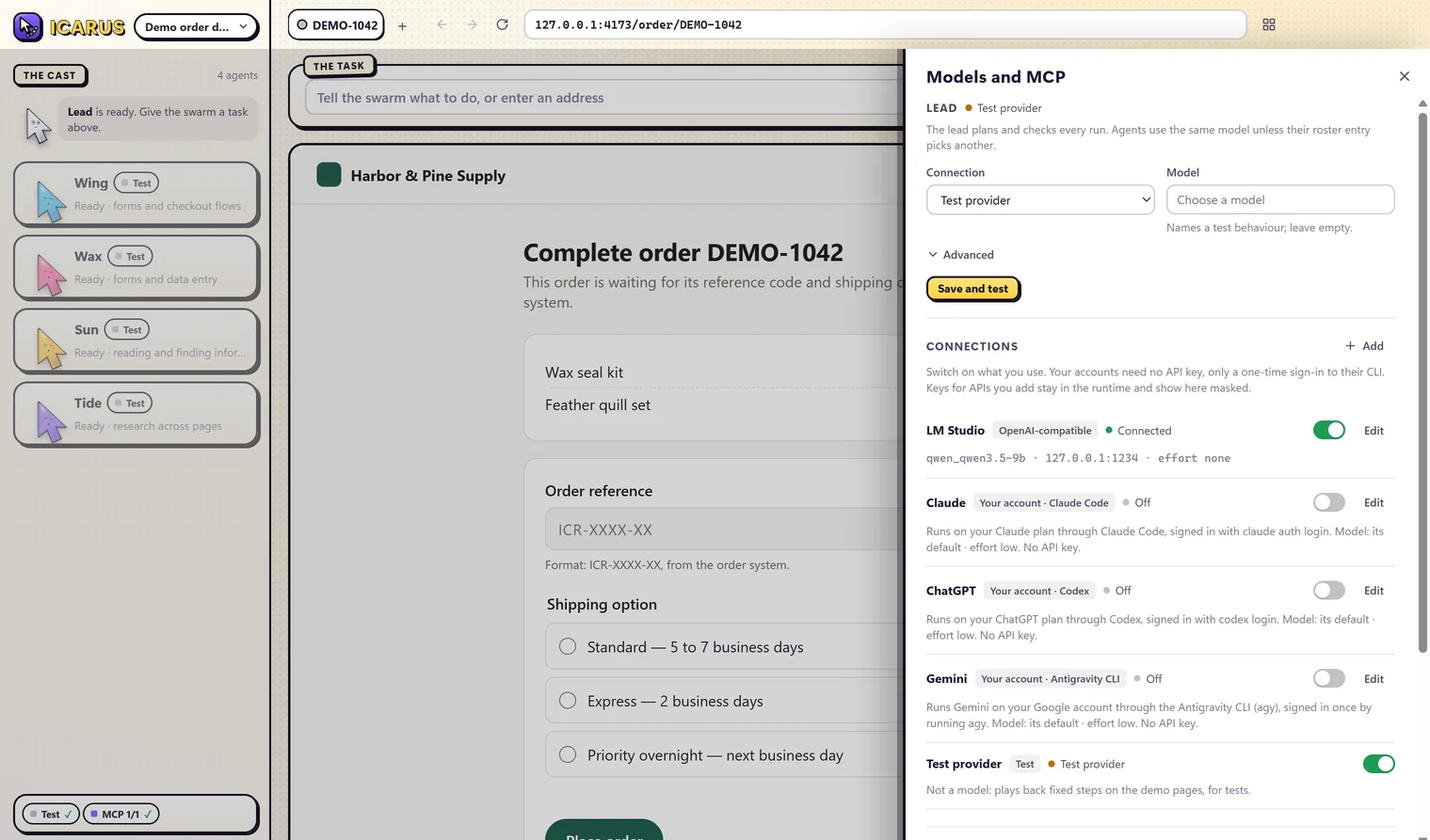
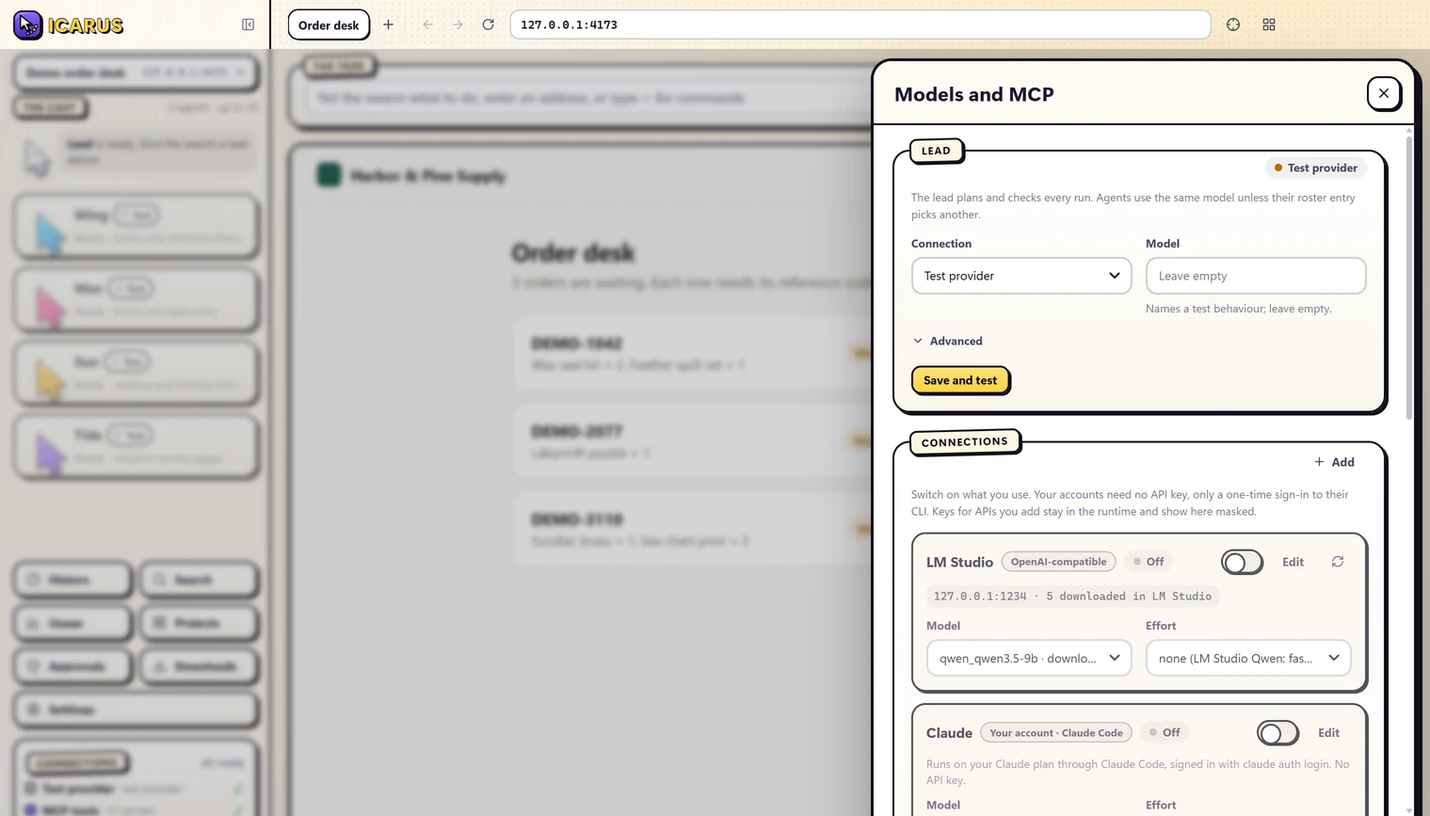
ICARUS 1.0.0 is out: high-res screens from the packaged build, download text
- Screens: six Night/Day pairs captured from the packaged 1.0.0 at 2x
  (live view, roster, Models and MCP, run details, settings, verified).
  The Models and MCP capture is cropped above its footer (local path)
  and anchored right in its frame.
- Download: version 1.0.0, Setup 196 MB, portable 180 MB, the five-scene
  setup that updates an earlier install, settings carry over from 0.1.0.
  The links already resolve to the v1.0.0 release assets.
- New in v1: says the list is out now in 1.0.0.

diff --git a/index.html b/index.html
@@ -48,13 +48,13 @@
     }, 1200 * (n + 1));
   };
 </script>
-<link rel="stylesheet" href="assets/styles.css?v=20261118g">
+<link rel="stylesheet" href="assets/styles.css?v=20261118h">
 <script type="importmap">{ "imports": { "three": "./assets/vendor/three/three.module.min.js" } }</script>
-<script src="assets/swarm.js?v=20261118g" defer></script>
-<script src="assets/story.js?v=20261118g" defer></script>
-<script src="assets/site.js?v=20261118g" defer></script>
-<script src="assets/comic-fx.js?v=20261118g" defer></script>
-<script type="module" src="assets/three-icarus.js?v=20261118g"></script>
+<script src="assets/swarm.js?v=20261118h" defer></script>
+<script src="assets/story.js?v=20261118h" defer></script>
+<script src="assets/site.js?v=20261118h" defer></script>
+<script src="assets/comic-fx.js?v=20261118h" defer></script>
+<script type="module" src="assets/three-icarus.js?v=20261118h"></script>
 </head>
 <body>
 
@@ -642,8 +642,8 @@
        Built from design/v1-features.md and design/v1-features-2.md: 81
        features (F1-F51, M1-M30) and 100 quality-of-life fixes (Q1-Q80,
        R1-R20), each built and exercised in the running app, word for word.
-       The finishing touches strip is not counted. Everything here ships
-       with the next Windows build; the download further down is v0.1.0.
+       The finishing touches strip is not counted. All of it is in ICARUS
+       1.0.0, the download further down.
   ──────────────────────────────────────────────────────────────────────── -->
   <section class="sec wrap" id="v1" aria-labelledby="v1-title">
     <p class="cap-meanwhile reveal">Meanwhile, in the workshop…</p>
@@ -652,7 +652,7 @@
         <p class="label">New in v1</p>
         <h2 id="v1-title">81 features and 100 little fixes.</h2>
       </div>
-      <p>Two batches, each item built into ICARUS v1 and checked in the running app. They arrive with the next Windows build; the download below is still v0.1.0.</p>
+      <p>Two batches, each item built into ICARUS v1 and checked in the running app. All of it is out now in ICARUS 1.0.0, the download below.</p>
     </header>
     <div class="v1-tally">
       <p class="v1-count reveal" data-kind="f"><b data-count="81">81</b><span>new features</span></p>
@@ -965,13 +965,11 @@
   </section>
 
   <!-- ─── Screens ──────────────────────────────────────────────────────────
-       App screenshots. A pair (shot-dark, shot-light) follows the edition;
-       a single capture shows in both. See shots/README.md for the files.
-         shots/run-{dark,light}[-1x].webp           2280 × 1410 (1x: 1140 wide)
-         shots/plan-review[-1x].webp                2280 × 1410 (Night only)
-         shots/replay[-1x].webp                     1924 × 1190 (Night only, cropped)
-         shots/rail-folded-{dark,light}[-1x].webp   2280 × 1410
-         shots/connections-{dark,light}[-1x].webp   3038 × 1786 (1x: 1519 wide)
+       Screenshots of the packaged ICARUS 1.0.0, one per edition: the dark
+       one shows in dark, the light one in light (see shots/README.md).
+         shots/{live-view,roster,history,settings,verified}-{dark,light}[-1x].webp
+                                                  3038 × 1880 (1x: 1519 wide)
+         shots/connections-{dark,light}[-1x].webp   3038 × 1734 (1x: 1519 × 867)
        A failed load retries a few times (a dropped connection must not
        leave the frame empty) before the drawn wireframe shows instead.
   ──────────────────────────────────────────────────────────────────────── -->
@@ -980,9 +978,9 @@
     <header class="sec-h split reveal">
       <div>
         <p class="label">Inside the app</p>
-        <h2 id="inside-title">The live view, and what sits around it.</h2>
+        <h2 id="inside-title">The live view, and everything around it.</h2>
       </div>
-      <p>From the v1 build, which arrives with the next Windows release: the swarm at work, the plan before it starts, a run played back. And the models it all runs on.</p>
+      <p>ICARUS 1.0.0 as it ships: the swarm at work, the agents you give it, the models it runs on, what a run leaves behind and how you set it up.</p>
     </header>
 
     <div class="shots">
@@ -990,8 +988,8 @@
         <div class="shot-frame pane inked">
           <div class="peek" aria-hidden="true"><div class="chr" data-who="wing" data-face="happy" data-a="left" style="--s:92px;--r:-10deg;--d:0"><svg class="glyph" style="--c:var(--wing)"><use href="#cur"/></svg></div><p class="bal p" data-tail="bl" style="--x:180%;--y:-10%;--w:220px">That&#8217;s us, live!</p></div>
           <div class="shot-media">
-            <img class="shot-dark" src="shots/run-dark-1x.webp" srcset="shots/run-dark-1x.webp 1140w, shots/run-dark.webp 2280w" sizes="(min-width: 1152px) 1104px, calc(100vw - 48px)" width="2280" height="1410" alt="ICARUS in Night, mid-run and paused: Wing, Wax and Sun each hold one order in its own tab, and the cast rail shows its tool tiles" loading="lazy" decoding="async" onerror="shotRetry(this)">
-            <img class="shot-light" src="shots/run-light-1x.webp" srcset="shots/run-light-1x.webp 1140w, shots/run-light.webp 2280w" sizes="(min-width: 1152px) 1104px, calc(100vw - 48px)" width="2280" height="1410" alt="ICARUS in Day, mid-run: Wing, Wax and Sun type each order&#8217;s reference in their own tabs while the lead watches" loading="lazy" decoding="async" onerror="shotRetry(this)">
+            <img class="shot-dark" src="shots/live-view-dark-1x.webp" srcset="shots/live-view-dark-1x.webp 1519w, shots/live-view-dark.webp 3038w" sizes="(min-width: 1152px) 1104px, calc(100vw - 48px)" width="3038" height="1880" alt="ICARUS 1.0.0 in Night, mid-run: Wing works one order while helpers Gust and Plume take the other two, each clicking its shipping option in its own tab, with the tool tiles under the cast" loading="lazy" decoding="async" onerror="shotRetry(this)">
+            <img class="shot-light" src="shots/live-view-light-1x.webp" srcset="shots/live-view-light-1x.webp 1519w, shots/live-view-light.webp 3038w" sizes="(min-width: 1152px) 1104px, calc(100vw - 48px)" width="3038" height="1880" alt="ICARUS 1.0.0 in Day, mid-run: Wing works one order while helpers Gust and Plume take the other two, each clicking its shipping option in its own tab, with the tool tiles under the cast" loading="lazy" decoding="async" onerror="shotRetry(this)">
             <div class="ph ph-live" aria-hidden="true">
               <div class="ph-top"><i></i><i></i><i></i><i></i><i></i></div>
               <div class="ph-grid"><i></i><i></i><i></i><i></i></div>
@@ -1003,67 +1001,83 @@
             </div>
           </div>
         </div>
-        <figcaption><b>Live view</b><span>Wing, Wax and Sun take an order each, every one in its own tab. Pause, live hints and Stop sit on the task bar; the tool tiles sit under the cast.</span></figcaption>
+        <figcaption><b>Live view</b><span>Wing takes one order; with Wing busy, helpers Gust and Plume join for the other two, one tab each. The tool tiles sit under the cast.</span></figcaption>
       </figure>
 
       <figure class="shot reveal">
         <div class="shot-frame pane inked">
-          <div class="peek" aria-hidden="true"><div class="chr" data-who="lead" data-face="sparkle" data-a="left" style="--s:92px;--r:-10deg;--d:0"><svg class="glyph" style="--c:var(--lead)"><use href="#cur"/></svg></div><p class="bal p" data-tail="bl" style="--x:180%;--y:-10%;--w:220px">My plan. Your call.</p></div>
+          <div class="peek" aria-hidden="true"><div class="chr" data-who="lead" data-face="sparkle" data-a="left" style="--s:92px;--r:-10deg;--d:0"><svg class="glyph" style="--c:var(--lead)"><use href="#cur"/></svg></div><p class="bal p" data-tail="bl" style="--x:180%;--y:-10%;--w:220px">The roster.</p></div>
           <div class="shot-media">
-            <img src="shots/plan-review-1x.webp" srcset="shots/plan-review-1x.webp 1140w, shots/plan-review.webp 2280w" sizes="(min-width: 1152px) 544px, (min-width: 761px) calc(50vw - 32px), calc(100vw - 48px)" width="2280" height="1410" alt="ICARUS Review the plan sheet: the lead&#8217;s three subtasks, one per order, each with its instructions and its agent, before anything runs" loading="lazy" decoding="async" onerror="shotRetry(this)">
+            <img class="shot-dark" src="shots/roster-dark-1x.webp" srcset="shots/roster-dark-1x.webp 1519w, shots/roster-dark.webp 3038w" sizes="(min-width: 1152px) 544px, (min-width: 761px) calc(50vw - 32px), calc(100vw - 48px)" width="3038" height="1880" alt="ICARUS Project and roster sheet in Night: Wing and Wax with their colour swatches, strengths, connections, standing instructions and MCP tools" loading="lazy" decoding="async" onerror="shotRetry(this)">
+            <img class="shot-light" src="shots/roster-light-1x.webp" srcset="shots/roster-light-1x.webp 1519w, shots/roster-light.webp 3038w" sizes="(min-width: 1152px) 544px, (min-width: 761px) calc(50vw - 32px), calc(100vw - 48px)" width="3038" height="1880" alt="ICARUS Project and roster sheet in Day: Wing and Wax with their colour swatches, strengths, connections, standing instructions and MCP tools" loading="lazy" decoding="async" onerror="shotRetry(this)">
             <div class="ph ph-list" aria-hidden="true">
               <i style="--c:var(--lead)"></i><i style="--c:var(--wing)"></i><i style="--c:var(--wax)"></i><i style="--c:var(--sun)"></i><i style="--c:var(--tide)"></i>
             </div>
           </div>
         </div>
-        <figcaption><b>Review the plan</b><span>Read the lead&#8217;s subtasks before anything runs, change them or hand one to another agent, then start.</span></figcaption>
-      </figure>
-
-      <figure class="shot reveal">
-        <div class="shot-frame pane inked">
-          <div class="peek" aria-hidden="true"><div class="chr" data-who="wax" data-face="happy" data-a="left" style="--s:92px;--r:-10deg;--d:0"><svg class="glyph" style="--c:var(--wax)"><use href="#cur"/></svg></div><p class="bal p" data-tail="bl" style="--x:180%;--y:-10%;--w:220px">Again, at 4&#215;!</p></div>
-          <div class="shot-media">
-            <img src="shots/replay-1x.webp" srcset="shots/replay-1x.webp 962w, shots/replay.webp 1924w" sizes="(min-width: 1152px) 544px, (min-width: 761px) calc(50vw - 32px), calc(100vw - 48px)" width="1924" height="1190" alt="ICARUS Run details for a stopped run: Run again, Retry 2 unfinished, and the replay scrubber playing the run back at four times speed" loading="lazy" decoding="async" onerror="shotRetry(this)">
-            <div class="ph ph-conn" aria-hidden="true">
-              <div><i></i><i></i><i></i></div><div><i></i><i></i><i></i><i></i></div>
-            </div>
-          </div>
-        </div>
-        <figcaption><b>Run details and replay</b><span>Run it again, retry only what did not finish, or play it back step by step.</span></figcaption>
-      </figure>
-
-      <figure class="shot reveal">
-        <div class="shot-frame pane inked">
-          <div class="peek" aria-hidden="true"><div class="chr" data-who="sun" data-face="cool" data-a="left" style="--s:92px;--r:-10deg;--d:0"><svg class="glyph" style="--c:var(--sun)"><use href="#cur"/></svg></div><p class="bal p" data-tail="bl" style="--x:180%;--y:-10%;--w:220px">Room to work.</p></div>
-          <div class="shot-media">
-            <img class="shot-dark" src="shots/rail-folded-dark-1x.webp" srcset="shots/rail-folded-dark-1x.webp 1140w, shots/rail-folded-dark.webp 2280w" sizes="(min-width: 1152px) 544px, (min-width: 761px) calc(50vw - 32px), calc(100vw - 48px)" width="2280" height="1410" alt="ICARUS in Night with the cast rail folded to portraits: all three orders verified, each on its own page" loading="lazy" decoding="async" onerror="shotRetry(this)">
-            <img class="shot-light" src="shots/rail-folded-light-1x.webp" srcset="shots/rail-folded-light-1x.webp 1140w, shots/rail-folded-light.webp 2280w" sizes="(min-width: 1152px) 544px, (min-width: 761px) calc(50vw - 32px), calc(100vw - 48px)" width="2280" height="1410" alt="ICARUS in Day with the cast rail folded to portraits: all three orders verified, each on its own page" loading="lazy" decoding="async" onerror="shotRetry(this)">
-            <div class="ph ph-live" aria-hidden="true">
-              <div class="ph-top"><i></i><i></i><i></i><i></i><i></i></div>
-              <div class="ph-grid"><i></i><i></i><i></i><i></i></div>
-              <div class="ph-dock"><i></i><i></i></div>
-              <svg class="glyph ph-cur" style="--c:var(--wing);left:30%;top:32%"><use href="#cur"/></svg>
-              <svg class="glyph ph-cur" style="--c:var(--wax);left:74%;top:38%"><use href="#cur"/></svg>
-              <svg class="glyph ph-cur" style="--c:var(--sun);left:22%;top:66%"><use href="#cur"/></svg>
-              <svg class="glyph ph-cur" style="--c:var(--tide);left:66%;top:70%"><use href="#cur"/></svg>
-            </div>
-          </div>
-        </div>
-        <figcaption><b>Folded rail</b><span>Fold the cast to portraits and the stage gets the room. All three orders here are verified on their own pages.</span></figcaption>
+        <figcaption><b>Roster</b><span>Each agent&#8217;s colour, strength, connection, standing instructions and MCP tools.</span></figcaption>
       </figure>
 
       <figure class="shot reveal">
         <div class="shot-frame pane inked">
           <div class="peek" aria-hidden="true"><div class="chr" data-who="tide" data-face="cool" data-a="left" style="--s:92px;--r:-10deg;--d:0"><svg class="glyph" style="--c:var(--tide)"><use href="#cur"/></svg></div><p class="bal p" data-tail="bl" style="--x:180%;--y:-10%;--w:220px">Your models.</p></div>
           <div class="shot-media">
-            <img class="shot-dark" src="shots/connections-dark-1x.webp" srcset="shots/connections-dark-1x.webp 1519w, shots/connections-dark.webp 3038w" sizes="(min-width: 1152px) 544px, (min-width: 761px) calc(50vw - 32px), calc(100vw - 48px)" width="3038" height="1786" alt="ICARUS Models and MCP sheet: LM Studio connected, plus Claude, ChatGPT and Gemini through your own signed-in accounts" loading="lazy" decoding="async" onerror="shotRetry(this)">
-            <img class="shot-light" src="shots/connections-light-1x.webp" srcset="shots/connections-light-1x.webp 1519w, shots/connections-light.webp 3038w" sizes="(min-width: 1152px) 544px, (min-width: 761px) calc(50vw - 32px), calc(100vw - 48px)" width="3038" height="1786" alt="ICARUS Models and MCP sheet: LM Studio connected, plus Claude, ChatGPT and Gemini through your own signed-in accounts" loading="lazy" decoding="async" onerror="shotRetry(this)">
+            <img class="shot-dark shot-r" src="shots/connections-dark-1x.webp" srcset="shots/connections-dark-1x.webp 1519w, shots/connections-dark.webp 3038w" sizes="(min-width: 1152px) 544px, (min-width: 761px) calc(50vw - 32px), calc(100vw - 48px)" width="3038" height="1734" alt="ICARUS Models and MCP sheet in Night: the lead on the Test provider, LM Studio switched off, and Claude as an account connection through Claude Code, no API key" loading="lazy" decoding="async" onerror="shotRetry(this)">
+            <img class="shot-light shot-r" src="shots/connections-light-1x.webp" srcset="shots/connections-light-1x.webp 1519w, shots/connections-light.webp 3038w" sizes="(min-width: 1152px) 544px, (min-width: 761px) calc(50vw - 32px), calc(100vw - 48px)" width="3038" height="1734" alt="ICARUS Models and MCP sheet in Day: the lead on the Test provider, LM Studio switched off, and Claude as an account connection through Claude Code, no API key" loading="lazy" decoding="async" onerror="shotRetry(this)">
             <div class="ph ph-conn" aria-hidden="true">
               <div><i></i><i></i><i></i></div><div><i></i><i></i><i></i><i></i></div>
             </div>
           </div>
         </div>
         <figcaption><b>Models and MCP</b><span>LM Studio locally, or Claude, ChatGPT and Gemini on your own accounts, no API key.</span></figcaption>
+      </figure>
+
+      <figure class="shot reveal">
+        <div class="shot-frame pane inked">
+          <div class="peek" aria-hidden="true"><div class="chr" data-who="sun" data-face="cool" data-a="left" style="--s:92px;--r:-10deg;--d:0"><svg class="glyph" style="--c:var(--sun)"><use href="#cur"/></svg></div><p class="bal p" data-tail="bl" style="--x:180%;--y:-10%;--w:220px">Every step, kept.</p></div>
+          <div class="shot-media">
+            <img class="shot-dark" src="shots/history-dark-1x.webp" srcset="shots/history-dark-1x.webp 1519w, shots/history-dark.webp 3038w" sizes="(min-width: 1152px) 544px, (min-width: 761px) calc(50vw - 32px), calc(100vw - 48px)" width="3038" height="1880" alt="ICARUS Run details in Night after a run with all 3 verified: the summary, Run again and the exports, the run in numbers, and who worked when on one timeline" loading="lazy" decoding="async" onerror="shotRetry(this)">
+            <img class="shot-light" src="shots/history-light-1x.webp" srcset="shots/history-light-1x.webp 1519w, shots/history-light.webp 3038w" sizes="(min-width: 1152px) 544px, (min-width: 761px) calc(50vw - 32px), calc(100vw - 48px)" width="3038" height="1880" alt="ICARUS Run details in Day after a run with all 3 verified: the summary, Run again and the exports, the run in numbers, and who worked when on one timeline" loading="lazy" decoding="async" onerror="shotRetry(this)">
+            <div class="ph ph-conn" aria-hidden="true">
+              <div><i></i><i></i><i></i></div><div><i></i><i></i><i></i><i></i></div>
+            </div>
+          </div>
+        </div>
+        <figcaption><b>Run details</b><span>Every run is kept: its numbers, who worked when, and one click to run it again, replay it or save a report.</span></figcaption>
+      </figure>
+
+      <figure class="shot reveal">
+        <div class="shot-frame pane inked">
+          <div class="peek" aria-hidden="true"><div class="chr" data-who="wax" data-face="happy" data-a="left" style="--s:92px;--r:-10deg;--d:0"><svg class="glyph" style="--c:var(--wax)"><use href="#cur"/></svg></div><p class="bal p" data-tail="bl" style="--x:180%;--y:-10%;--w:220px">Your way.</p></div>
+          <div class="shot-media">
+            <img class="shot-dark" src="shots/settings-dark-1x.webp" srcset="shots/settings-dark-1x.webp 1519w, shots/settings-dark.webp 3038w" sizes="(min-width: 1152px) 544px, (min-width: 761px) calc(50vw - 32px), calc(100vw - 48px)" width="3038" height="1880" alt="ICARUS Settings sheet in Night: Night, Day or follow Windows, motion and density, and switches for cursors, desktop cursors, speech balloons, sound-effect words and target boxes" loading="lazy" decoding="async" onerror="shotRetry(this)">
+            <img class="shot-light" src="shots/settings-light-1x.webp" srcset="shots/settings-light-1x.webp 1519w, shots/settings-light.webp 3038w" sizes="(min-width: 1152px) 544px, (min-width: 761px) calc(50vw - 32px), calc(100vw - 48px)" width="3038" height="1880" alt="ICARUS Settings sheet in Day: Night, Day or follow Windows, motion and density, and switches for cursors, desktop cursors, speech balloons, sound-effect words and target boxes" loading="lazy" decoding="async" onerror="shotRetry(this)">
+            <div class="ph ph-list" aria-hidden="true">
+              <i style="--c:var(--lead)"></i><i style="--c:var(--wing)"></i><i style="--c:var(--wax)"></i><i style="--c:var(--sun)"></i><i style="--c:var(--tide)"></i>
+            </div>
+          </div>
+        </div>
+        <figcaption><b>Settings</b><span>Night, Day or follow Windows, motion and density, and each part of the swarm&#8217;s show on or off.</span></figcaption>
+      </figure>
+
+      <figure class="shot shot-main reveal">
+        <div class="shot-frame pane inked">
+          <div class="peek" aria-hidden="true"><div class="chr" data-who="wing" data-face="sparkle" data-a="left" style="--s:92px;--r:-10deg;--d:0"><svg class="glyph" style="--c:var(--wing)"><use href="#cur"/></svg></div><p class="bal p" data-tail="bl" style="--x:180%;--y:-10%;--w:220px">All three, verified!</p></div>
+          <div class="shot-media">
+            <img class="shot-dark" src="shots/verified-dark-1x.webp" srcset="shots/verified-dark-1x.webp 1519w, shots/verified-dark.webp 3038w" sizes="(min-width: 1152px) 1104px, calc(100vw - 48px)" width="3038" height="1880" alt="ICARUS in Night after a run: all three orders confirmed, each verified on its own page, while the lead looks over Sun&#8217;s result" loading="lazy" decoding="async" onerror="shotRetry(this)">
+            <img class="shot-light" src="shots/verified-light-1x.webp" srcset="shots/verified-light-1x.webp 1519w, shots/verified-light.webp 3038w" sizes="(min-width: 1152px) 1104px, calc(100vw - 48px)" width="3038" height="1880" alt="ICARUS in Day after a run: all three orders confirmed, each verified on its own page, while the lead looks over Sun&#8217;s result" loading="lazy" decoding="async" onerror="shotRetry(this)">
+            <div class="ph ph-live" aria-hidden="true">
+              <div class="ph-top"><i></i><i></i><i></i><i></i><i></i></div>
+              <div class="ph-grid"><i></i><i></i><i></i><i></i></div>
+              <div class="ph-dock"><i></i><i></i></div>
+              <svg class="glyph ph-cur" style="--c:var(--wing);left:30%;top:32%"><use href="#cur"/></svg>
+              <svg class="glyph ph-cur" style="--c:var(--wax);left:74%;top:38%"><use href="#cur"/></svg>
+              <svg class="glyph ph-cur" style="--c:var(--sun);left:22%;top:66%"><use href="#cur"/></svg>
+              <svg class="glyph ph-cur" style="--c:var(--tide);left:66%;top:70%"><use href="#cur"/></svg>
+            </div>
+          </div>
+        </div>
+        <figcaption><b>Verified</b><span>A run is done only when every result checks out on its own page.</span></figcaption>
       </figure>
     </div>
     <p class="cap-meanwhile reveal cap-end">And now, your turn…</p>
@@ -1080,13 +1094,13 @@
       <header class="sec-h">
         <p class="label">Download</p>
         <h2 id="download-title">Get ICARUS for Windows.</h2>
-        <p>Version 0.1.0 for Windows 10 and 11, 64-bit. It runs on your own machine, with your own models.</p>
+        <p>Version 1.0.0 for Windows 10 and 11, 64-bit. It runs on your own machine, with your own models.</p>
       </header>
       <div class="dl-cards">
         <a class="dl-card dl-main" href="https://github.com/iksamxul/Icarus/releases/latest/download/ICARUS-Setup.exe">
           <span class="dl-orb" aria-hidden="true"><svg class="ico"><use href="#i-download"/></svg></span>
-          <span class="dl-t"><b>Installer</b><small><span>ICARUS-Setup.exe</span> · <span>195&nbsp;MB</span></small></span>
-          <span class="dl-d">A comic setup in four episodes, with the cast flying around while it installs. No admin needed. Adds Start menu and desktop shortcuts, and an uninstaller in Settings › Apps.</span>
+          <span class="dl-t"><b>Installer</b><small><span>ICARUS-Setup.exe</span> · <span>196&nbsp;MB</span></small></span>
+          <span class="dl-d">A comic setup in five scenes, starring the cast. No admin needed. Adds a Start menu entry, an optional desktop shortcut and an uninstaller in Settings › Apps, and updates an earlier install in place.</span>
           <span class="dl-tag">Recommended</span>
         </a>
         <a class="dl-card" href="https://github.com/iksamxul/Icarus/releases/latest/download/ICARUS-portable.zip">
@@ -1101,7 +1115,7 @@
           <li><svg class="ico" aria-hidden="true"><use href="#i-check-circle"/></svg><span>The demo order desk starts automatically. Its pages and tools are included; no Node installation or separate server needed.</span></li>
           <li><svg class="ico" aria-hidden="true"><use href="#i-chip"/></svg><span>Pick models and reasoning effort from dropdowns on every provider, synced automatically with downloaded <a href="https://lmstudio.ai">LM Studio</a> models.</span></li>
           <li><svg class="ico" aria-hidden="true"><use href="#i-key"/></svg><span>Your own accounts use the Claude Code, Codex and Antigravity CLIs signed in on that PC. No API key.</span></li>
-          <li><svg class="ico" aria-hidden="true"><use href="#i-check-circle"/></svg><span>Designate a local folder for live-reloading builds, and optionally enable Computer &amp; application access + Live vision. Settings stay in <code>%APPDATA%\ICARUS</code>.</span></li>
+          <li><svg class="ico" aria-hidden="true"><use href="#i-check-circle"/></svg><span>Designate a local folder for live-reloading builds, and optionally enable Computer &amp; application access + Live vision. Settings stay in <code>%APPDATA%\ICARUS</code> and carry over from 0.1.0.</span></li>
         </ul>
         <p class="dl-more"><a href="https://github.com/iksamxul/Icarus/releases/latest">All releases and SHA-256 checksums</a><span aria-hidden="true">·</span><a href="#run">or build it from source</a></p>
       </div>

diff --git a/assets/styles.css b/assets/styles.css
@@ -3212,3 +3212,6 @@ body::before { display: none; }
   .v1-touches { padding: 32px 16px 16px; }
   .v1-touches ul { grid-template-columns: minmax(0, 1fr); gap: 12px; }
 }
+
+/* A capture wider than the 16:10 frame keeps its right edge, where the sheet is. */
+.shot-media img.shot-r { object-position: 100% 50%; }

diff --git a/shots/README.md b/shots/README.md
@@ -1,13 +1,14 @@
 # Screens
 
-Captures of the real app (Electron), driven through its own end-to-end scenarios. A pair (`-dark`, `-light`) follows the site's edition: the dark one shows in dark, the light one in light. A single capture shows in both. Each image comes at full size and at half size (`-1x`), and the page picks one through `srcset`.
+Captures of the packaged ICARUS 1.0.0, one set per theme. The site shows the dark set in its dark edition and the light set in its light edition. Each image comes at the full 2x capture (3038 px wide) and at half size (`-1x`), and the page picks one through `srcset`.
 
 | File | Shows |
 | --- | --- |
-| `run-{dark,light}.webp` | v1, mid-run: Wing, Wax and Sun on one order each, the cast rail with its tool tiles. The Night one is paused. 2280 × 1410. |
-| `plan-review.webp` | v1, the Review the plan sheet before a run starts. Night only. 2280 × 1410. |
-| `replay.webp` | v1, Run details with the replay scrubber. Night only, cropped to 1924 × 1190 to leave out two notices that show a local path (with the Windows user name). |
-| `rail-folded-{dark,light}.webp` | v1, the cast rail folded to portraits after a run with all three orders verified. 2280 × 1410. |
-| `connections-{dark,light}.webp` | The Models and MCP sheet, cropped above the bottom line, which shows the local config path (with the Windows user name). From the earlier Cast & Stage build, kept because the final v1 capture shows LM Studio unreachable during the test run. 3038 × 1786. |
+| `live-view-{dark,light}.webp` | The live view mid-run: Wing on one order, helpers Gust and Plume on the other two, each mid-click on its shipping option in its own tab, with the cast rail and its tool tiles. 3038 × 1880. |
+| `roster-{dark,light}.webp` | The Project and roster sheet. 3038 × 1880. |
+| `connections-{dark,light}.webp` | The Models and MCP sheet: the lead on the Test provider, LM Studio off (not running during the capture), Claude as an account connection. Cropped just above the footer, which shows the local config path (with the Windows user name). 3038 × 1734; the page anchors it to the right (`shot-r`). |
+| `history-{dark,light}.webp` | Run details after a verified run: summary, exports, the run in numbers and who worked when. 3038 × 1880. |
+| `settings-{dark,light}.webp` | The Settings sheet. 3038 × 1880. |
+| `verified-{dark,light}.webp` | The stage after a run, all three orders confirmed. 3038 × 1880. |
 
-To refresh: the v1 captures come from `test-results/batch2/` and `test-results/audit-run-1520.png` (the window at 1520 × 940, device scale 1.5). Convert to WebP (quality 84), save a half-size copy as `-1x`, and crop any line or notice that shows a local path.
+To refresh: capture the packaged app (originals in `test-results/site-shots-v1/png/`) at 1520 × 940 with `--force-device-scale-factor=2`, the Night set with the demo pages in their dark theme. Convert to WebP, save a half-size copy as `-1x`, and crop any line that shows a local path.
